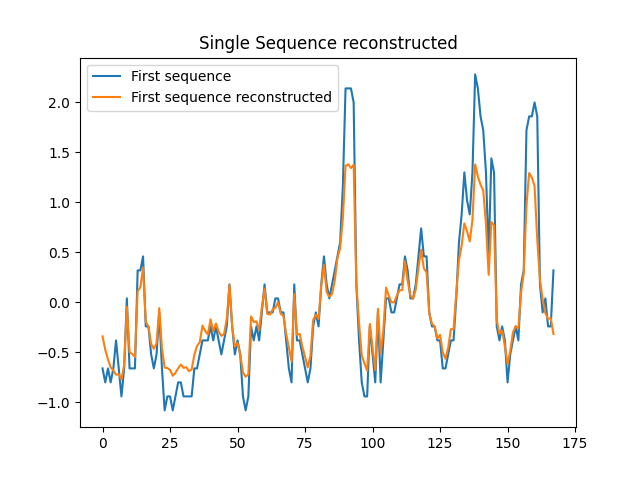
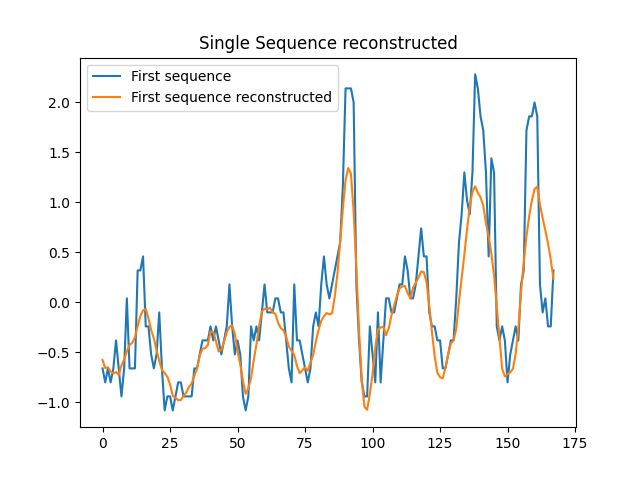
custom test models

diff --git a/Scripts/Reconstructor.py b/Scripts/Reconstructor.py
@@ -1,7 +1,7 @@
 import keras
 from tensorflow import expand_dims
 from keras.models import Model
-from keras.layers import Conv1D, Dense, Dropout, Flatten, Input, Conv1DTranspose
+from keras.layers import Conv1D, Dense, Dropout, Flatten, Input, Conv1DTranspose, AveragePooling1D
 import numpy as np
 import pandas as pd
 from sklearn.datasets import load_iris
@@ -53,22 +53,26 @@ class TSReconstructor(keras.Model):
         super(TSReconstructor, self).__init__()
         self.Dropout = Dropout(0.2)
         self.Flatten = Flatten()
+        self.AvgPool = AveragePooling1D(pool_size=2)
         self.conv1D_1 = Conv1D(8, kernel_size=7, padding="valid", input_shape=(seq_length, nFeatures), activation='relu')
         self.conv1D_2 = Conv1D(16, kernel_size=7, padding="valid", activation='relu')
         self.conv1D_3 = Conv1D(32, kernel_size=7, padding="valid", activation='relu')
 
-        self.convT1D_1 = Conv1DTranspose(32, kernel_size=3, padding='valid', activation='relu')
-        self.convT1D_2 = Conv1DTranspose(16, kernel_size=3, padding='valid', activation='relu')
-        self.convT1D_3 = Conv1DTranspose(8, kernel_size=3, padding='valid', activation='relu')
+        self.convT1D_1 = Conv1DTranspose(32, strides=2, kernel_size=3, padding='valid', activation='relu')
+        self.convT1D_2 = Conv1DTranspose(16, strides=2, kernel_size=3, padding='valid', activation='relu')
+        self.convT1D_3 = Conv1DTranspose(8, strides=2, kernel_size=3, padding='valid', activation='relu')
 
         self.Classifier = Dense(seq_length)
 
     def call(self, input):
         conv = self.conv1D_1(input)
+        conv = self.AvgPool(conv)
         conv = self.Dropout(conv)
         conv = self.conv1D_2(conv)
+        conv = self.AvgPool(conv)
         conv = self.Dropout(conv)
         conv = self.conv1D_3(conv)
+        conv = self.AvgPool(conv)
         conv = self.Dropout(conv)
         deconv = self.convT1D_1(conv)
         deconv = self.Dropout(deconv)

diff --git a/Scripts/WindTurbine_FaultDetection.py b/Scripts/WindTurbine_FaultDetection.py
@@ -178,4 +178,9 @@ if sModel == 'TR':
     plt.legend()
     plt.show()
 
+    plt.plot(residuals, label='residuals')
+    plt.title('TR Resdiuals')
+    plt.legend()
+    plt.show()
+
 print("finished")
